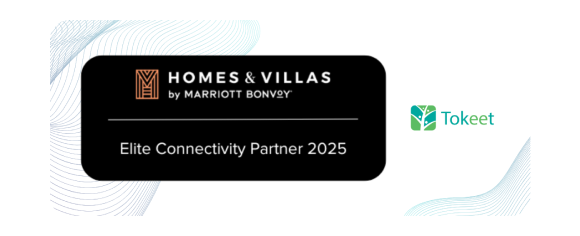
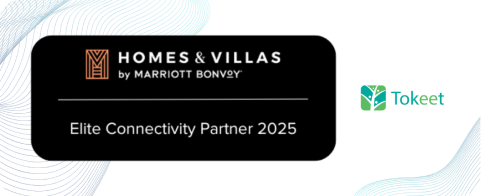
Updated spacing and buttons

Changed region(s): [[0.0, 0.0, 0.9356, 1.0], [0.7173, 0.6122, 1.0, 1.0], [0.6861, 0.5816, 0.9356, 0.9184]]

diff --git a/index.html b/index.html
@@ -73,7 +73,7 @@
             }
 
             .mobile-button {
-                padding: 12px 24px !important;
+                padding: 12px 0px !important;
                 font-size: 16px !important;
             }
 
@@ -177,19 +177,11 @@
                                 <span style="background: #e2f8ca; font-weight: 600;"> completely free to use</span> once
                                 you subscribe to the Artificial Intelligence app in the Tokeet Appstore.
                             </p>
-                            <table role="presentation" cellspacing="0" cellpadding="0" border="0"
-                                style="padding-bottom: 20px;">
-                                <tbody>
-                                    <tr>
-                                        <td class="mobile-button"
-                                            style="background-color: #000000; border-radius: 40px; padding: 11px 41px;">
-                                            <a href="#"
-                                                style="color: #ffffff; text-decoration: none; font-size: 18px; font-weight: 600;">Learn
-                                                more</a>
-                                        </td>
-                                    </tr>
-                                </tbody>
-                            </table>
+                            <p class="mobile-button" style="padding: 20px 0px;">
+                                <a href="#"
+                                    style="color: #ffffff; text-decoration: none; font-size: 18px; font-weight: 600; background-color: #000000; border-radius: 40px; padding: 11px 41px;">Learn more
+                                </a>
+                            </p>
                         </td>
                     </tr>
                 </table>
@@ -223,18 +215,11 @@
                                             reducing errors. Now he scales his portfolio and keeps guests happy — with
                                             more time for holidays.
                                         </p>
-                                        <table role="presentation" cellspacing="0" cellpadding="0" border="0">
-                                            <tbody>
-                                                <tr>
-                                                    <td class="mobile-button"
-                                                        style="background-color: #000000; border-radius: 40px; padding: 11px 41px;">
-                                                        <a href="#"
-                                                            style="color: #ffffff; text-decoration: none; font-size: 18px; font-weight: 600;">Learn
-                                                            more</a>
-                                                    </td>
-                                                </tr>
-                                            </tbody>
-                                        </table>
+                                        <p class="mobile-button" style="padding: 20px 0px;">
+                                            <a href="#"
+                                                style="color: #ffffff; text-decoration: none; font-size: 18px; font-weight: 600; background-color: #000000; border-radius: 40px; padding: 11px 41px;">Learn more
+                                            </a>
+                                        </p>
                                     </td>
                                 </tr>
                             </table>
@@ -271,18 +256,11 @@
                                                 <span style="background: #e2f8ca; font-weight: 600;">WhatsApp, and SMS —
                                                     all in one view.</span> No more bouncing between tabs or platforms.
                                             </p>
-                                            <table role="presentation" cellspacing="0" cellpadding="0" border="0">
-                                                <tbody>
-                                                    <tr>
-                                                        <td class="mobile-button"
-                                                            style="background-color: #000000; border-radius: 40px; padding: 11px 41px;">
-                                                            <a href="#"
-                                                                style="color: #ffffff; text-decoration: none; font-size: 18px; font-weight: 600;">Learn
-                                                                more</a>
-                                                        </td>
-                                                    </tr>
-                                                </tbody>
-                                            </table>
+                                            <p class="mobile-button" style="padding: 20px 0px;">
+                                                <a href="#"
+                                                    style="color: #ffffff; text-decoration: none; font-size: 18px; font-weight: 600; background-color: #000000; border-radius: 40px; padding: 11px 41px;">Learn more
+                                                </a>
+                                            </p>
                                         </td>
                                     </tr>
                                 </tbody>
@@ -313,16 +291,10 @@
                                             This acknowledgment reflects our <br> commitment to providing reliable and
                                             innovative solutions.
                                         </p>
-                                        <table role="presentation" cellspacing="0" cellpadding="0" border="0">
-                                            <tr>
-                                                <td class="mobile-button"
-                                                    style="background-color: #ffffff; border-radius: 40px; padding: 11px 41px; border: 1px solid #7E7E7E;">
-                                                    <a href="#"
-                                                        style="color: #475059; text-decoration: none; font-size: 18px; font-weight: 600;">Learn
-                                                        more</a>
-                                                </td>
-                                            </tr>
-                                        </table>
+                                        <p class="mobile-button" style="padding-top: 10px;">
+                                            <a href="#" style="background-color: #ffffff; border-radius: 40px; padding: 11px 41px; border: 1px solid #7E7E7E; color: #475059; text-decoration: none; font-size: 18px; font-weight: 600;">Learn more
+                                            </a>
+                                        </p>
                                     </td>
                                 </tr>
                             </table>
@@ -338,7 +310,7 @@
                                     <td style="text-align: left; padding-bottom: 20px;">
                                         <img src="images/recognized-banner.png"
                                             alt="Airbnb Preferred Software Partner 2025" class="mobile-image"
-                                            style="display: block; max-width: 290px; height: auto; width: 100%;">
+                                            style="display: block; max-width: 242px; height: auto; width: 100%; padding: 10px 24px; background: #ffffff; border-radius: 10px;">
                                     </td>
                                 </tr>
                                 <tr>
@@ -351,16 +323,10 @@
                                             style="margin: 20px 0 40px 0; font-size: 18px; color: #475059; font-weight: 500; line-height: 33px; text-align: left;">
                                             We’re honored to be part of this ecosystem and excited about what’s ahead.
                                         </p>
-                                        <table role="presentation" cellspacing="0" cellpadding="0" border="0">
-                                            <tr>
-                                                <td class="mobile-button"
-                                                    style="background-color: #ffffff; border-radius: 40px; padding: 11px 41px; border: 1px solid #7E7E7E;">
-                                                    <a href="#"
-                                                        style="color: #475059; text-decoration: none; font-size: 18px; font-weight: 600;">Learn
-                                                        more</a>
-                                                </td>
-                                            </tr>
-                                        </table>
+                                        <p class="mobile-button" style="padding-top: 10px;">
+                                            <a href="#" style="background-color: #ffffff; border-radius: 40px; padding: 11px 41px; border: 1px solid #7E7E7E; color: #475059; text-decoration: none; font-size: 18px; font-weight: 600;">Learn more
+                                            </a>
+                                        </p>
                                     </td>
                                 </tr>
                             </table>
@@ -386,15 +352,9 @@
                                             Quickly spot which bookings still need a host review – and take action
                                             before time runs out.
                                         </p>
-                                        <table role="presentation" cellspacing="0" cellpadding="0" border="0">
-                                            <tr>
-                                                <td class="mobile-button"
-                                                    style="background-color: #ffffff; border-radius: 40px; padding: 11px 57px; border: 1px solid #7E7E7E;">
-                                                    <a href="#"
-                                                        style="color: #475059; text-decoration: none; font-size: 18px; font-weight: 600;">Explore</a>
-                                                </td>
-                                            </tr>
-                                        </table>
+                                        <p class="mobile-button" style="padding-top: 10px;">
+                                            <a href="#" style="background-color: #ffffff; border-radius: 40px; padding: 11px 57px; border: 1px solid #7E7E7E; color: #475059; text-decoration: none; font-size: 18px; font-weight: 600;">Explore</a>
+                                        </p>
                                     </td>
                                 </tr>
                             </table>
@@ -419,15 +379,9 @@
                                             style="margin: 14px 0 24px 0; font-size: 18px; color: #475059; line-height: 33px; text-align: left; font-weight: 500;">
                                             We’ve launched a new Rates API in AdvanceCM to speed up the generation of rental rates.
                                         </p>
-                                        <table role="presentation" cellspacing="0" cellpadding="0" border="0">
-                                            <tr>
-                                                <td class="mobile-button"
-                                                    style="background-color: #ffffff; border-radius: 40px; padding: 11px 38px; border: 1px solid #7E7E7E;">
-                                                    <a href="#"
-                                                        style="color: #475059; text-decoration: none; font-size: 18px; font-weight: 600;">Learn more</a>
-                                                </td>
-                                            </tr>
-                                        </table>
+                                        <p class="mobile-button" style="padding-top: 10px;">
+                                            <a href="#" style="background-color: #ffffff; border-radius: 40px; padding: 11px 38px; border: 1px solid #7E7E7E; color: #475059; text-decoration: none; font-size: 18px; font-weight: 600;">Learn more</a>
+                                        </p>
                                     </td>
                                 </tr>
                             </table>
@@ -452,15 +406,9 @@
                                             style="margin: 14px 0 24px 0; font-size: 18px; color: #475059; line-height: 33px; text-align: left; font-weight: 500;">
                                             Automate the critical tasks that come with fast-turnaround bookings
                                         </p>
-                                        <table role="presentation" cellspacing="0" cellpadding="0" border="0">
-                                            <tr>
-                                                <td class="mobile-button"
-                                                    style="background-color: #ffffff; border-radius: 40px; padding: 11px 57px; border: 1px solid #7E7E7E;">
-                                                    <a href="#"
-                                                        style="color: #475059; text-decoration: none; font-size: 18px; font-weight: 600;">Explore</a>
-                                                </td>
-                                            </tr>
-                                        </table>
+                                        <p class="mobile-button" style="padding-top: 10px;">
+                                            <a href="#" style="background-color: #ffffff; border-radius: 40px; padding: 11px 57px; border: 1px solid #7E7E7E; color: #475059; text-decoration: none; font-size: 18px; font-weight: 600;">Explore</a>
+                                        </p>
                                     </td>
                                 </tr>
                             </table>
